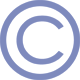
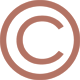
update footer + responsive fixed hreader section

diff --git a/index.html b/index.html
@@ -23,7 +23,7 @@
         <section id="header" class="noselect">
             <div class="container">
                 <div class="row">
-                    <div class="col-md-2 col-xs-12 ph-0 mt-20">
+                    <div class="col-md-2 col-xs-12 mt-20">
                         <div class="row">
                             <img class="img-responsive img-margin" src="assets/images/logoMsrt.png" alt="وزارت علوم، تحقیقات و فناوری" />
                             <p class="JournalPortal-siteSubTitle text-center">معاونت پژوهش و فناوری</p>
@@ -32,7 +32,7 @@
                             </div>
                         </div>
                     </div>
-                    <div class="col-md-4 col-xs-12 ph-0 mt-20">
+                    <div class="col-md-4 col-xs-12 mt-20">
 
                     </div>
                     <div class="col-md-6 col-xs-12 pr-30">
@@ -98,13 +98,13 @@
             <div class="container ph-0">
                 <div class="JournalPortal-search">
                     <div class="row">
-                        <div class="col-md-2 col-xs-5 pl-0">
+                        <div class="col-md-2 col-sm-3 col-xs-12 pl-0">
                             <span class="JournalPortal-search_title text-center fa-Vazir bold">جستجوی سریع در ۱۳۶۵ عنوان مقاله</span>
                         </div>
-                        <div class="col-md-8 col-xs-7 pr-0">
+                        <div class="col-md-8 col-sm-6 col-xs-9 pr-0">
                             <input class="form-control" type="text" placeholder="مثال: ابتکار و خلاقیت در علوم انسانی">
                         </div>
-                        <div class="col-md-2 col-xs-12 pr-0">
+                        <div class="col-md-2 col-sm-3 col-xs-3 pr-0">
                             <button type="submit" class="btn btn-block JournalPortal-search_btn">جستجو</button>
                         </div>
                     </div>
@@ -114,7 +114,7 @@
         <section id="subjects">
             <div class="container">
                 <div class="row">
-                    <div class="col-md-2 col-xs-12 col-half-offset ph-0 itemmatchHeight">
+                    <div class="col-md-2 col-sm-6 col-xs-12 col-half-offset itemmatchHeight">
                         <div class="JournalPortal-header">
                             <h4 class="JournalPortal-header_title">نشریات بر اساس موضوع</h4>
                         </div>
@@ -154,7 +154,7 @@
                             </ul>
                         </div>
                     </div>
-                    <div class="col-md-2 col-xs-12 col-half-offset ph-0 itemmatchHeight">
+                    <div class="col-md-2 col-sm-6 col-xs-12 col-half-offset itemmatchHeight">
                         <div class="JournalPortal-header">
                             <h4 class="JournalPortal-header_title">نشریات بر اساس موضوع</h4>
                         </div>
@@ -194,7 +194,7 @@
                             </ul>
                         </div>
                     </div>
-                    <div class="col-md-2 col-xs-12 col-half-offset ph-0 itemmatchHeight">
+                    <div class="col-md-2 col-sm-6 col-xs-12 col-half-offset itemmatchHeight">
                         <div class="JournalPortal-header">
                             <h4 class="JournalPortal-header_title">نشریات بر اساس موضوع</h4>
                         </div>
@@ -234,7 +234,7 @@
                             </ul>
                         </div>
                     </div>
-                    <div class="col-md-2 col-xs-12 col-half-offset ph-0 itemmatchHeight">
+                    <div class="col-md-2 col-sm-6 col-xs-12 col-half-offset itemmatchHeight">
                         <div class="JournalPortal-header">
                             <h4 class="JournalPortal-header_title">نشریات بر اساس موضوع</h4>
                         </div>
@@ -274,7 +274,7 @@
                             </ul>
                         </div>
                     </div>
-                    <div class="col-md-2 col-xs-12 ph-0 itemmatchHeight">
+                    <div class="col-md-2 col-sm-6 col-xs-12 itemmatchHeight">
                         <div class="JournalPortal-header">
                             <h4 class="JournalPortal-header_title">نشریات بر اساس موضوع</h4>
                         </div>
@@ -606,6 +606,13 @@
                 <div class="row">
                     <nav class="navbar graybg">
                         <div class="container">
+                            <div class="navbar-header">
+                                <button type="button" class="navbar-toggle collapsed pull-right" data-toggle="collapse" data-target="#bottom-navbar" aria-expanded="false" aria-controls="navbar">
+                                <span class="sr-only">منو</span>
+                                <span class="icon-bar"></span>
+                                <span class="icon-bar"></span>
+                                <span class="icon-bar"></span> 
+                            </button>
                             <div class="navbar-collapse collapse" id="bottom-navbar">
                                 <ul class="nav navbar-nav fa-Rezvan">
                                     <li><a href="#">صفحه اصلی</a></li>
@@ -635,7 +642,7 @@
                         <p class="footer-section__body white">
                             چنانچه نظری در مورد سامانه و عملکرد آن دارید تقاضامند است ما را در جریان بگذارید:
                         </p>
-                        <a class="JournalPortal-FeedBackModal brown bold" data-toggle="modal" data-target="#FeedBackModal" style="cursor:pointer">برای ارسال بازخورد لطفا کلیک کنید</a>
+                        <a class="JournalPortal-FeedBackModal bold" data-toggle="modal" data-target="#FeedBackModal" style="cursor:pointer">برای ارسال بازخورد لطفا کلیک کنید</a>
                         <div class="modal fade" id="FeedBackModal">
                             <div class="modal-dialog">
                                 <div class="modal-content">

diff --git a/assets/css/style.css b/assets/css/style.css
@@ -178,6 +178,11 @@ input[type="color"]:focus {
   opacity: .6;
 }
 
+.navbar {
+    margin-right: 15px;
+    margin-left: 15px;
+}
+
 .navbar-toggle {
     border: 1px solid white;
     margin-right: 15px;
@@ -233,8 +238,12 @@ input[type="color"]:focus {
     margin-top: 40px;
 }
 
-#subjects .col-md-2 {
-    width: 18.66666667%
+@media (min-width: 768px) {
+    #subjects .col-md-2 {
+        width: 18.66666667%;
+        padding-right: 0;
+        padding-left: 0;
+    }
 }
 
 #information,
@@ -778,8 +787,20 @@ input[type="color"]:focus {
     color: #9c3c25;
 }
 
+.JournalPortal-main-footer {
+    background-color: #9c3c25;
+}
+
+.footer-section__header {
+    margin-top: 0;
+}
+
+.JournalPortal-FeedBackModal {
+    color: #fff;
+}
+
 .JournalPortal-FeedBackModal:hover {
-    color: #9c3c25;
+    color: #e2e1dd;
 }
 
 
